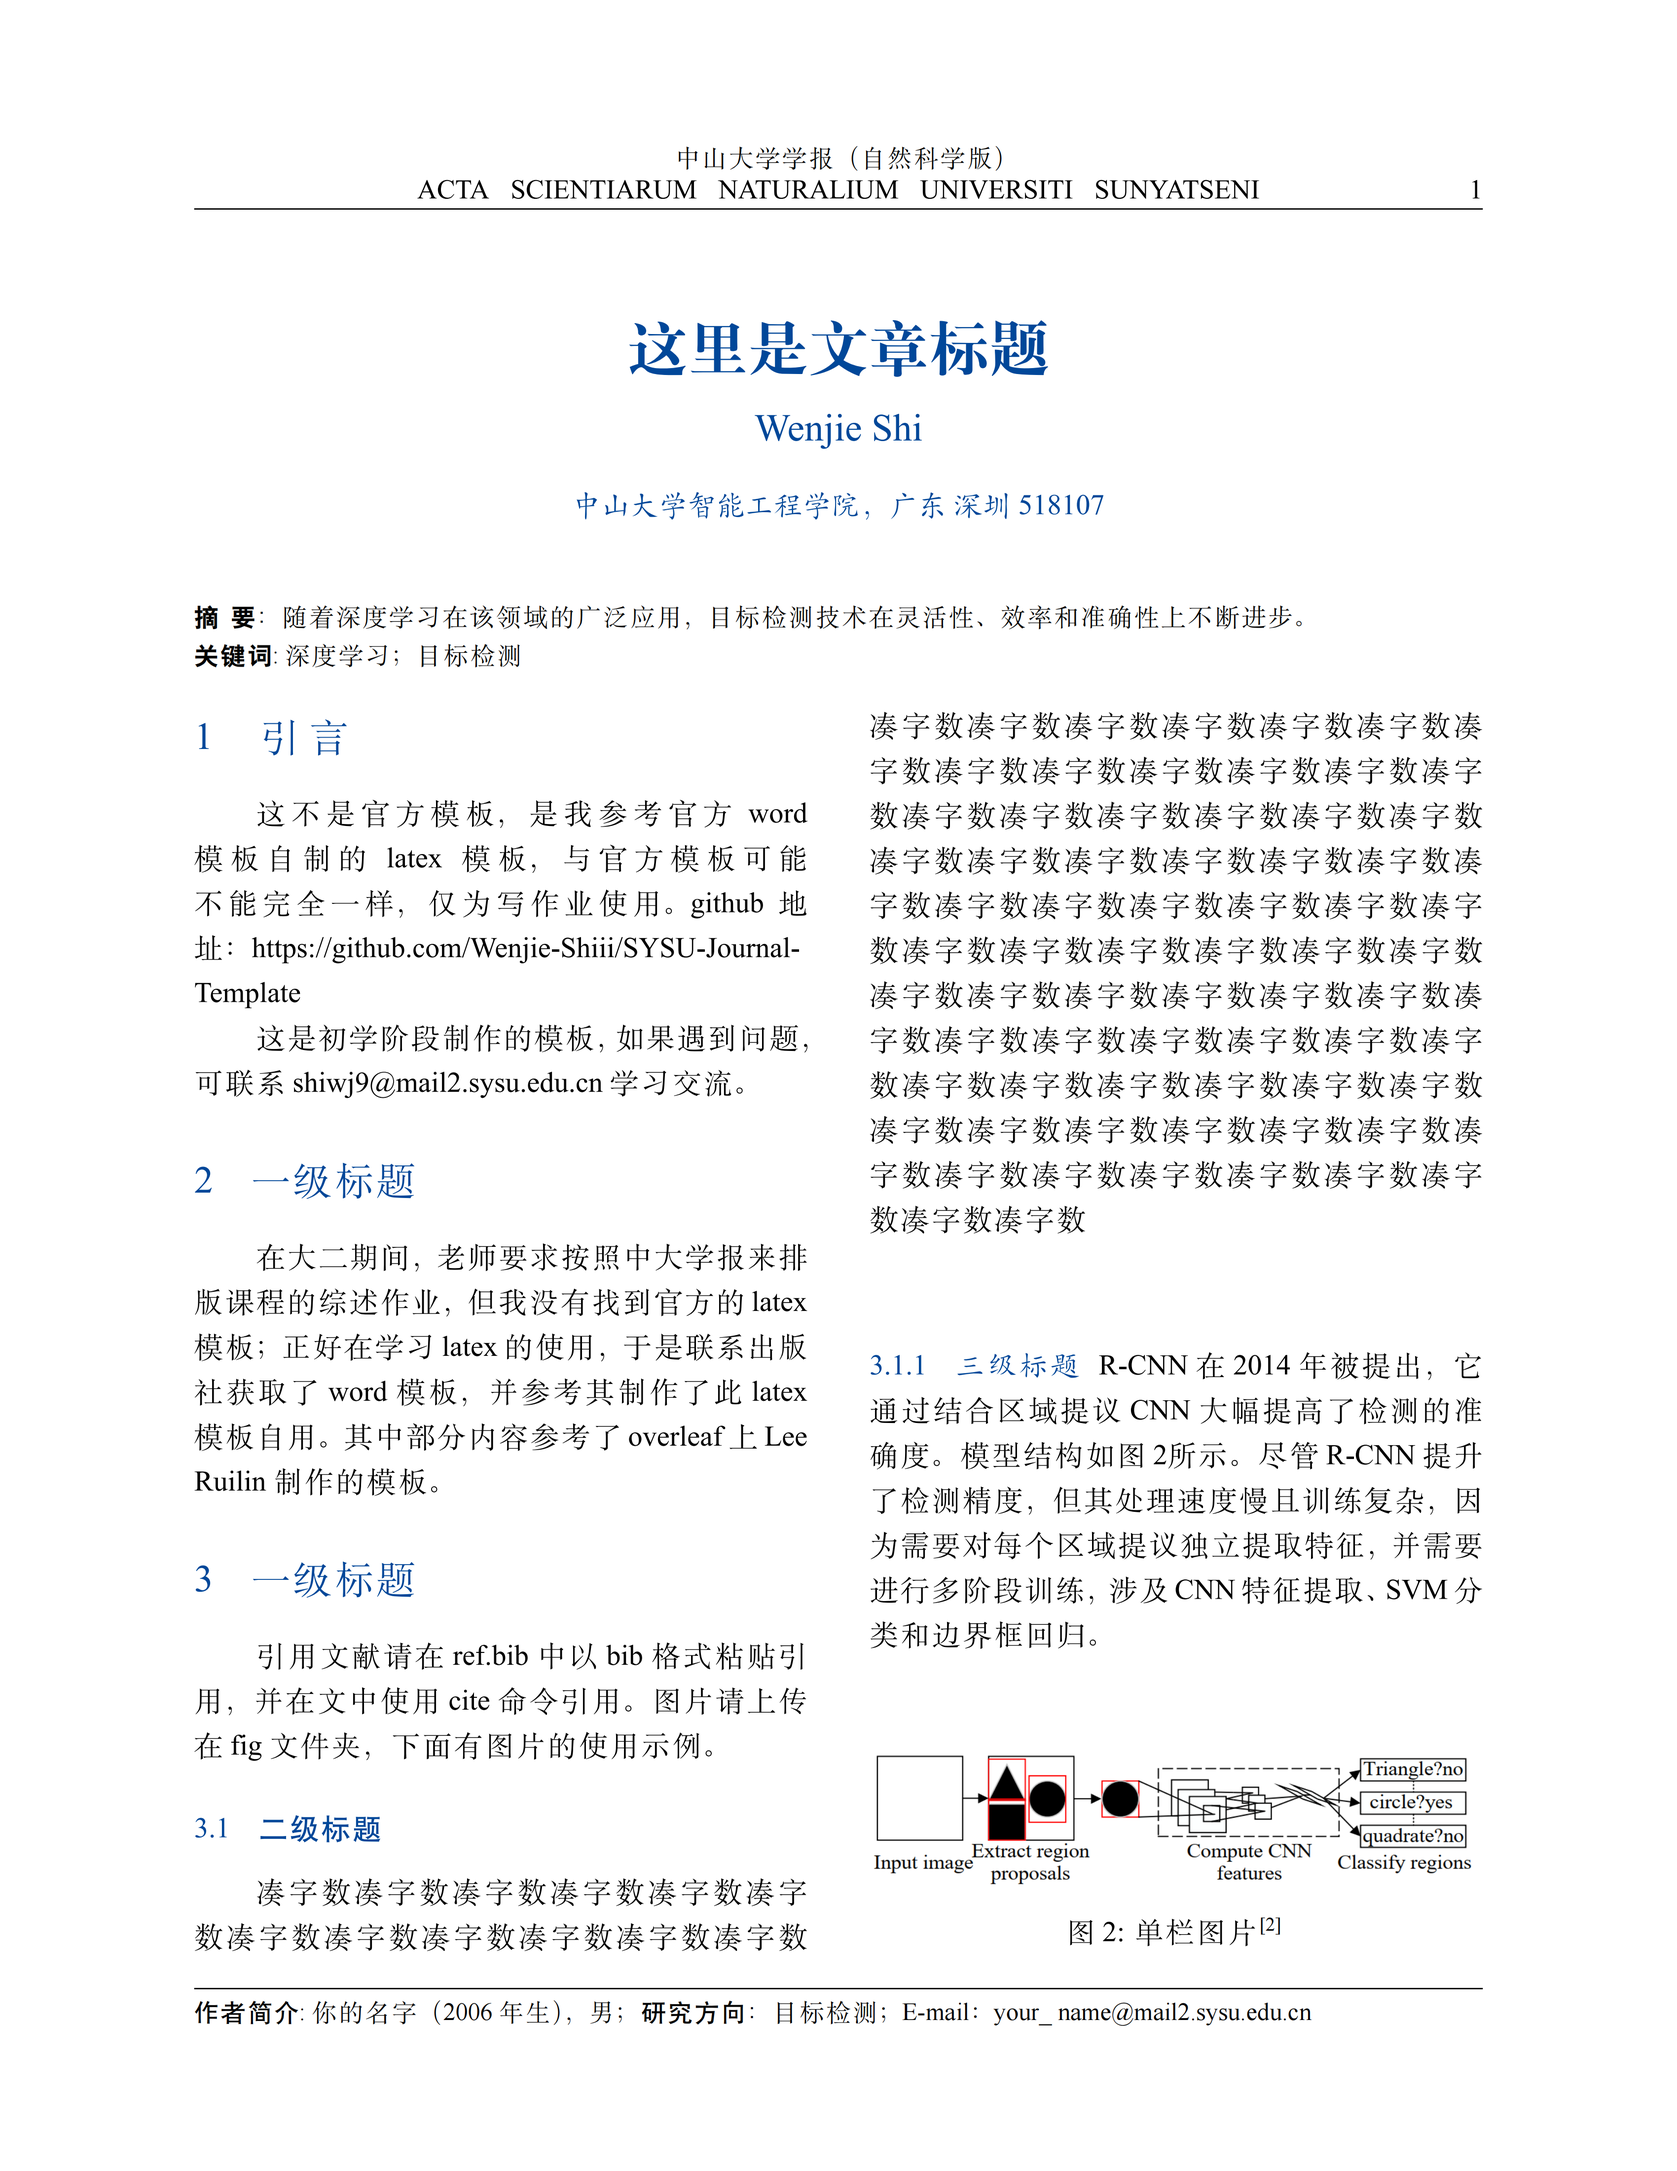
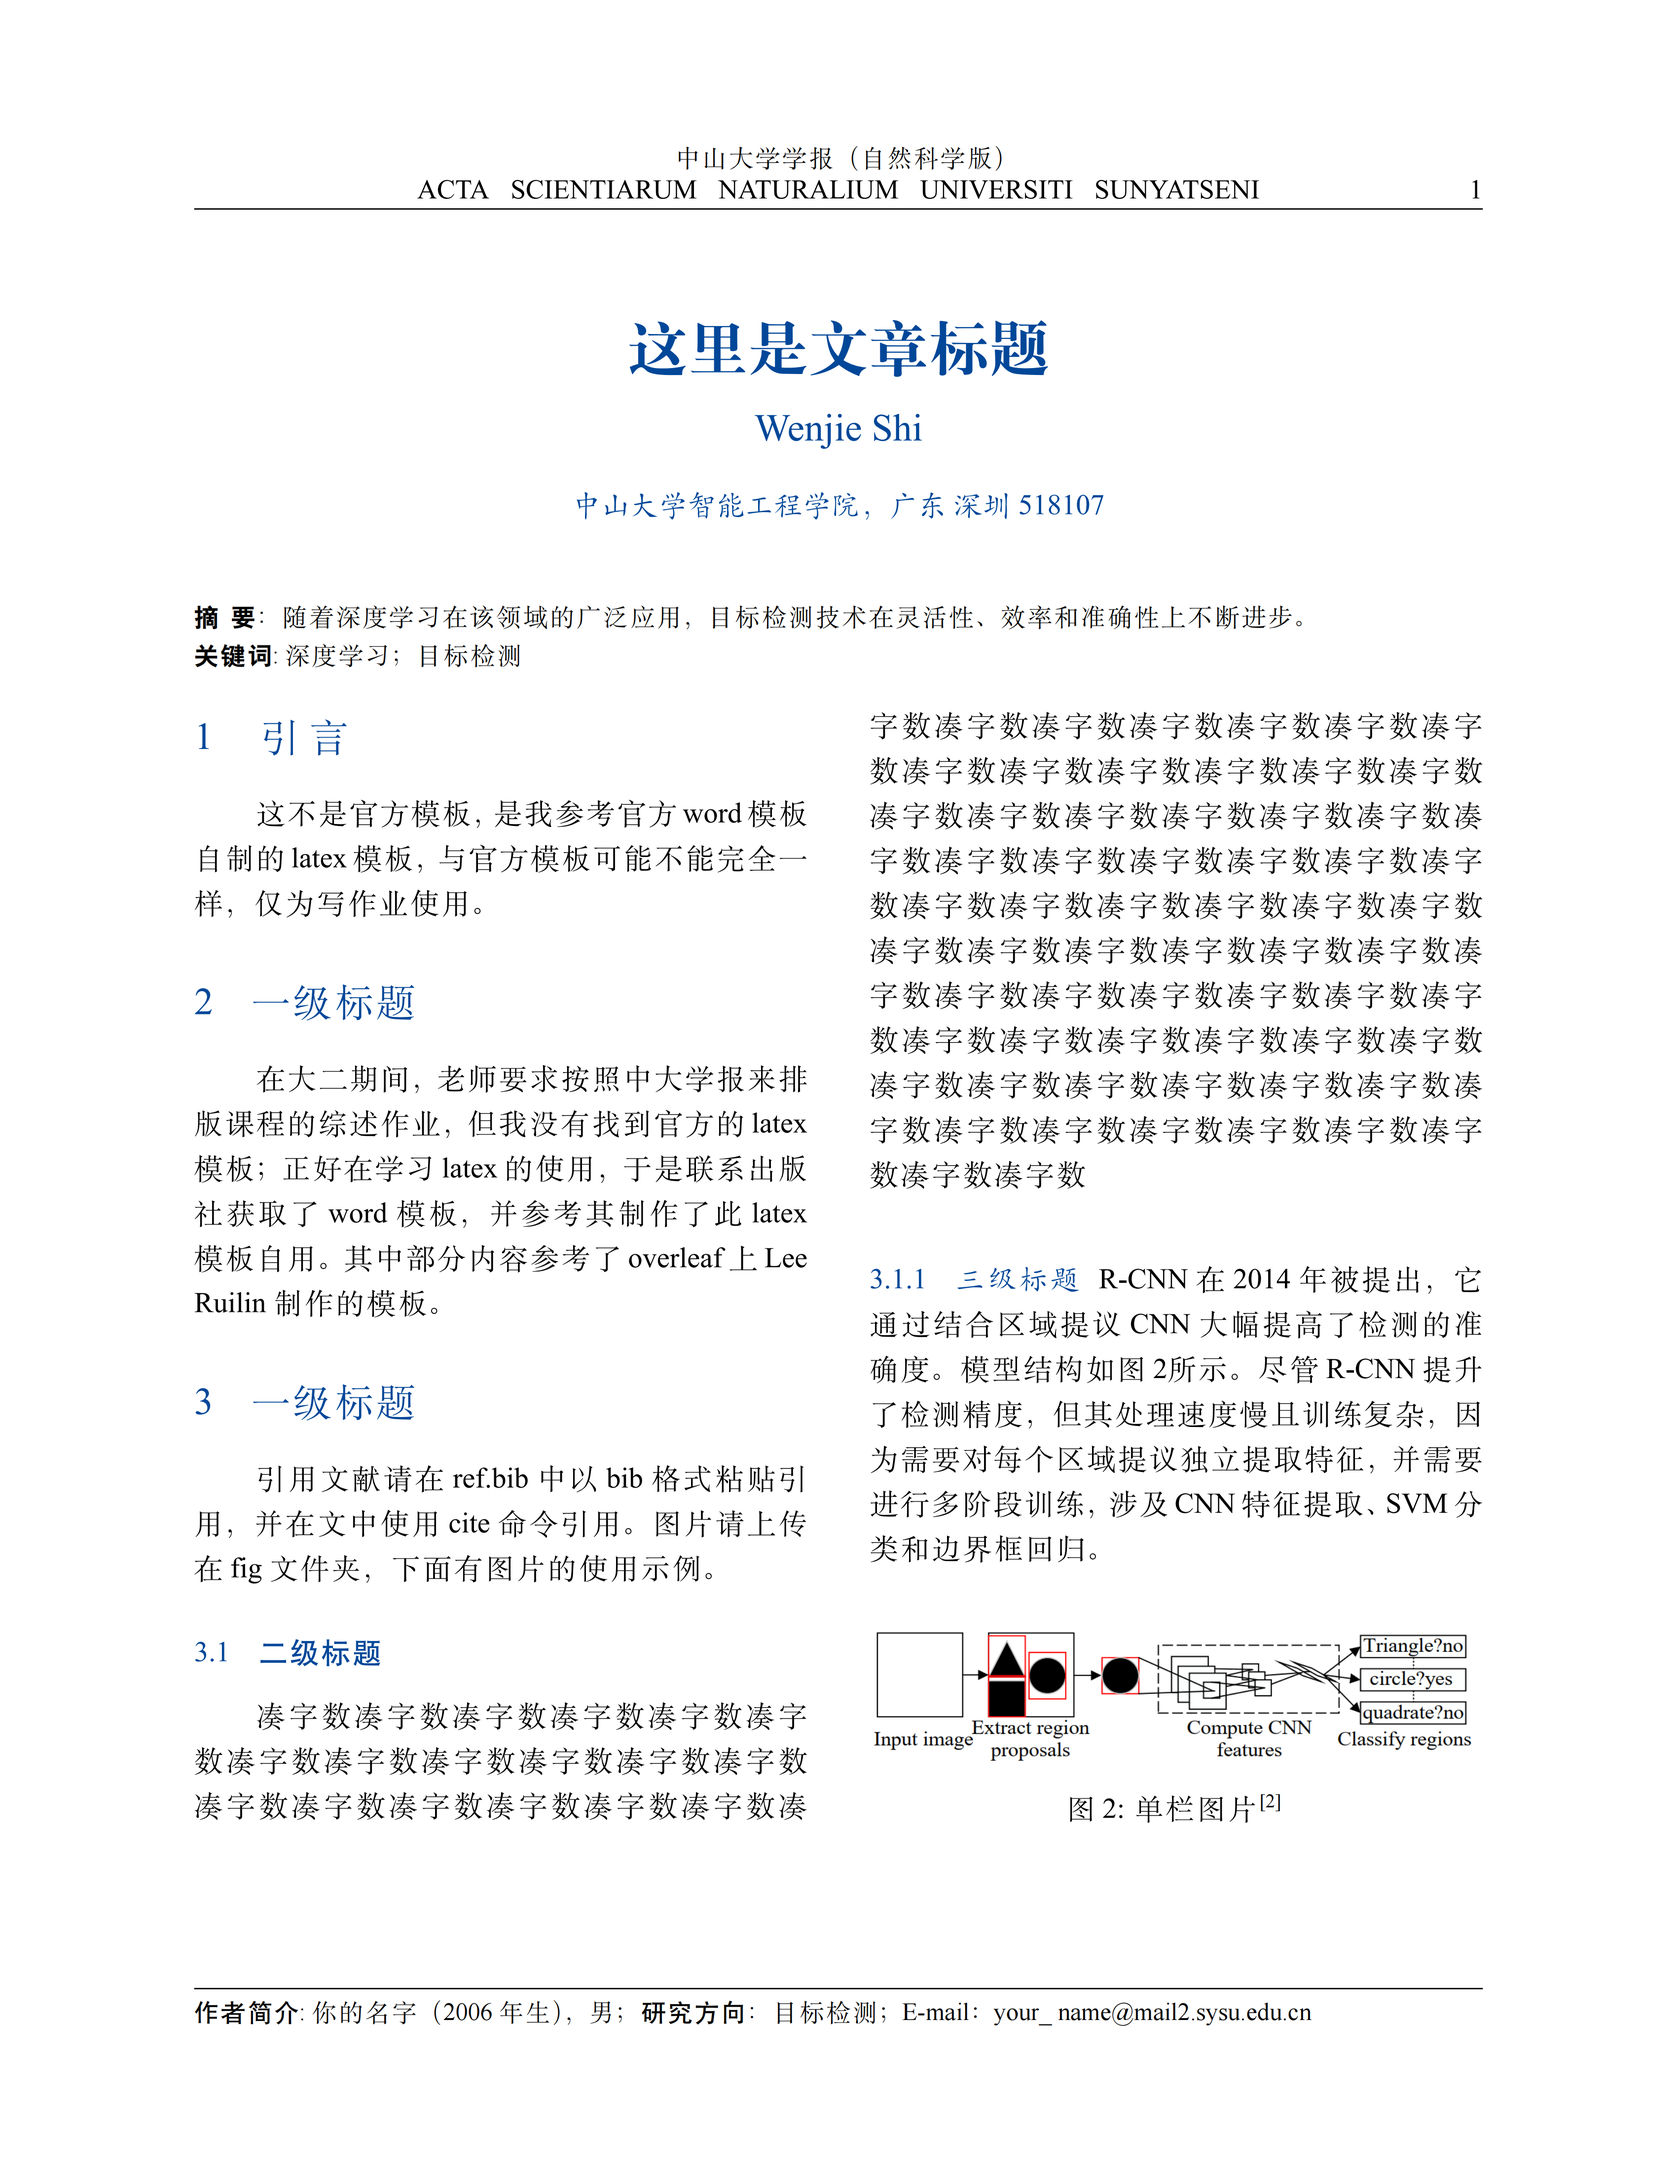
update

Changed region(s): [[0.1247, 0.3114, 0.9041, 0.903], [0.3429, 0.7161, 0.3741, 0.7473]]

diff --git a/main.tex b/main.tex
@@ -102,9 +102,7 @@
 
 \section{ 引 \ 言}
 \zihao{5}\songti  % 正文使用小五号宋体
-这不是官方模板，是我参考官方word模板自制的latex模板，与官方模板可能不能完全一样，仅为写作业使用。 github地址： https://github.com/Wenjie-Shiii/SYSU-Journal-Template
-
-这是初学阶段制作的模板，如果遇到问题，可联系shiwj9@mail2.sysu.edu.cn学习交流。
+这不是官方模板，是我参考官方word模板自制的latex模板，与官方模板可能不能完全一样，仅为写作业使用。
 
 % 跨双栏的大图示例
 \begin{figure*}[t]
